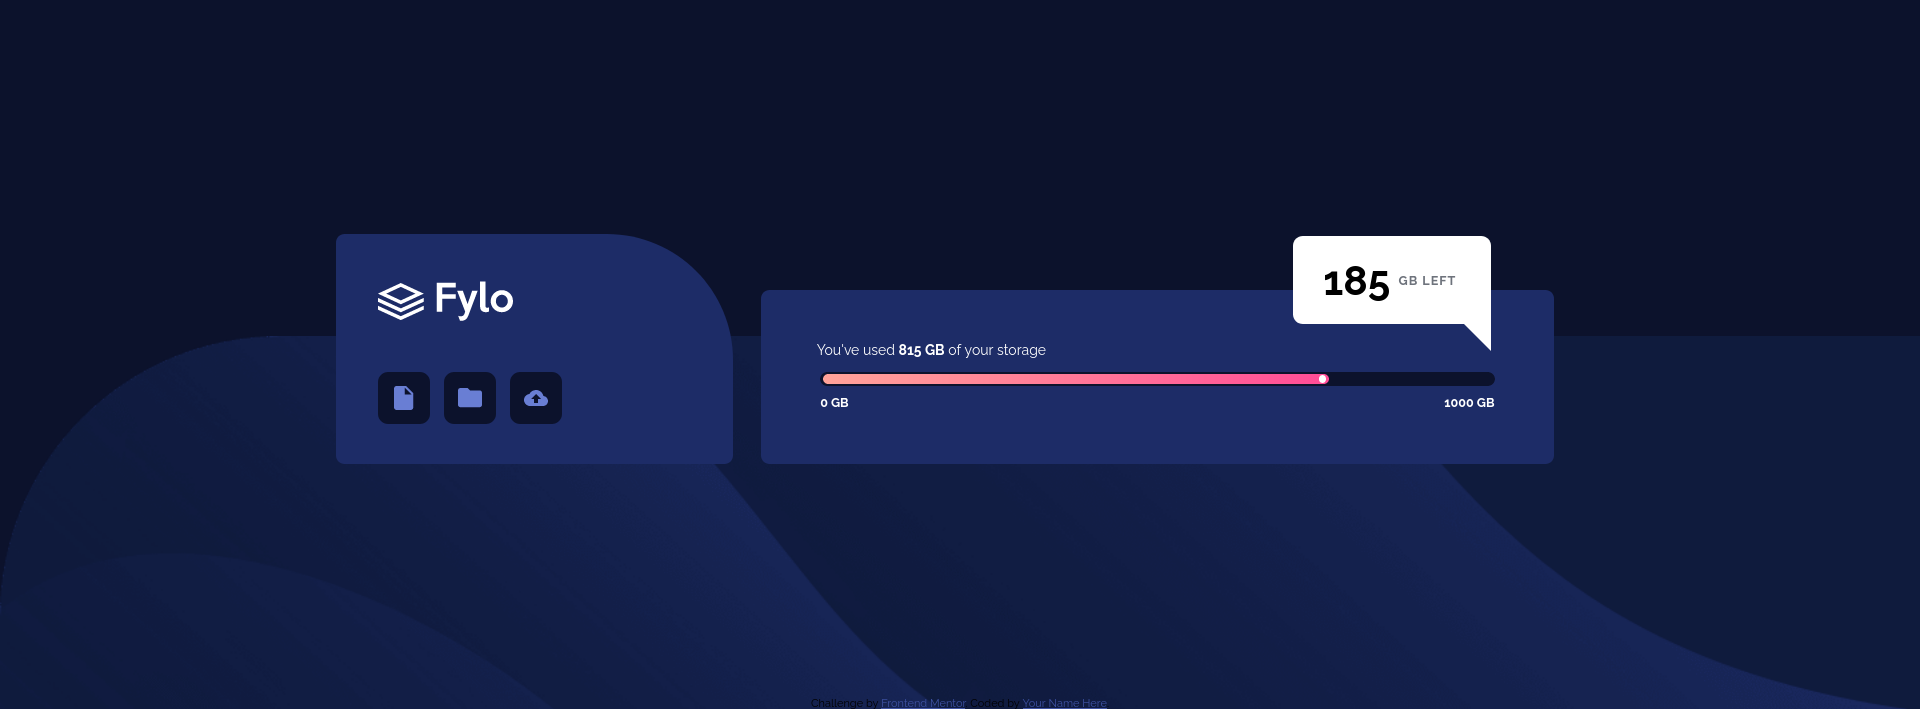
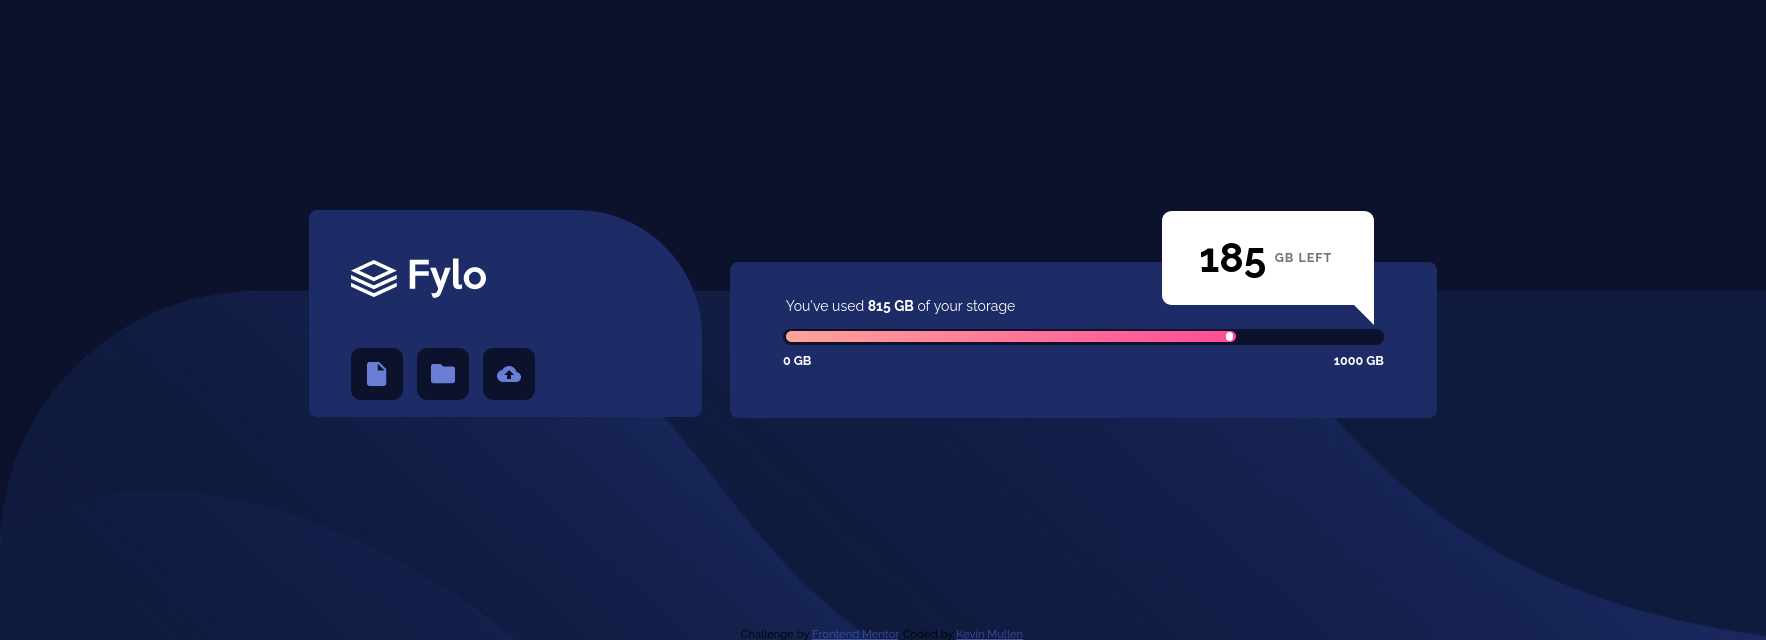
Fixed position problem with the triangle in the desktop version

diff --git a/style.css b/style.css
@@ -143,6 +143,7 @@ html {
   position: relative;
   z-index: 1;
   margin-top: 1rem;
+  flex-shrink: 0;
 }
 
 .inner-amount{
@@ -183,7 +184,7 @@ html {
   width: 50%;
   height: 50%;
   position: relative;
-  z-index: 2;
+  z-index: 3;
   top: 20%;
 }
 
@@ -243,21 +244,22 @@ html {
   .data-left {
     top: -80%;
     align-self: flex-end;
+    padding: 2rem;
     height: 60%;
-    width: 25%;
+    width: 30%;
     right: 4.5rem;
   }
   
   .tri {
     position: relative;
-    z-index: 3;
+    z-index: 2;
     height: 0px;
     width: 0px;
-    border-top: 30px solid transparent;
-    border-bottom: 30px solid transparent;
-    border-right: 30px solid var(--neut-400);
-    right: 6.65rem;
-    top: -2rem;
+    border-top: 20px solid transparent;
+    border-bottom: 20px solid transparent;
+    border-right: 20px solid var(--neut-400);
+    right: 5.95rem;
+    top: -.6rem;
   }
 }
 
